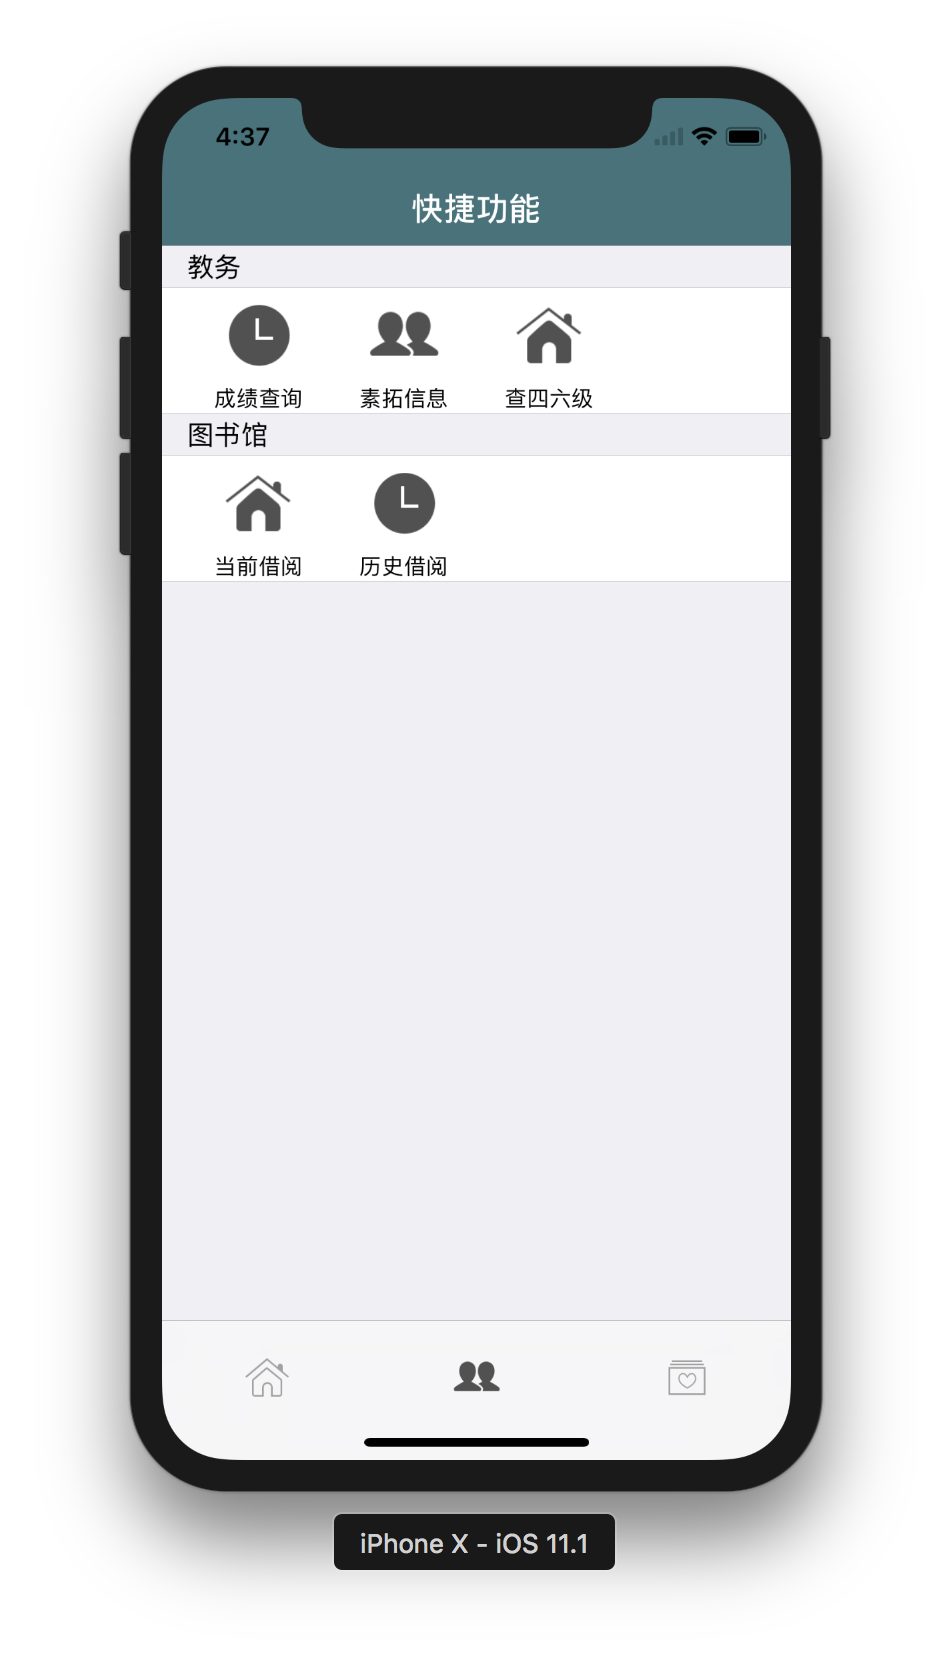
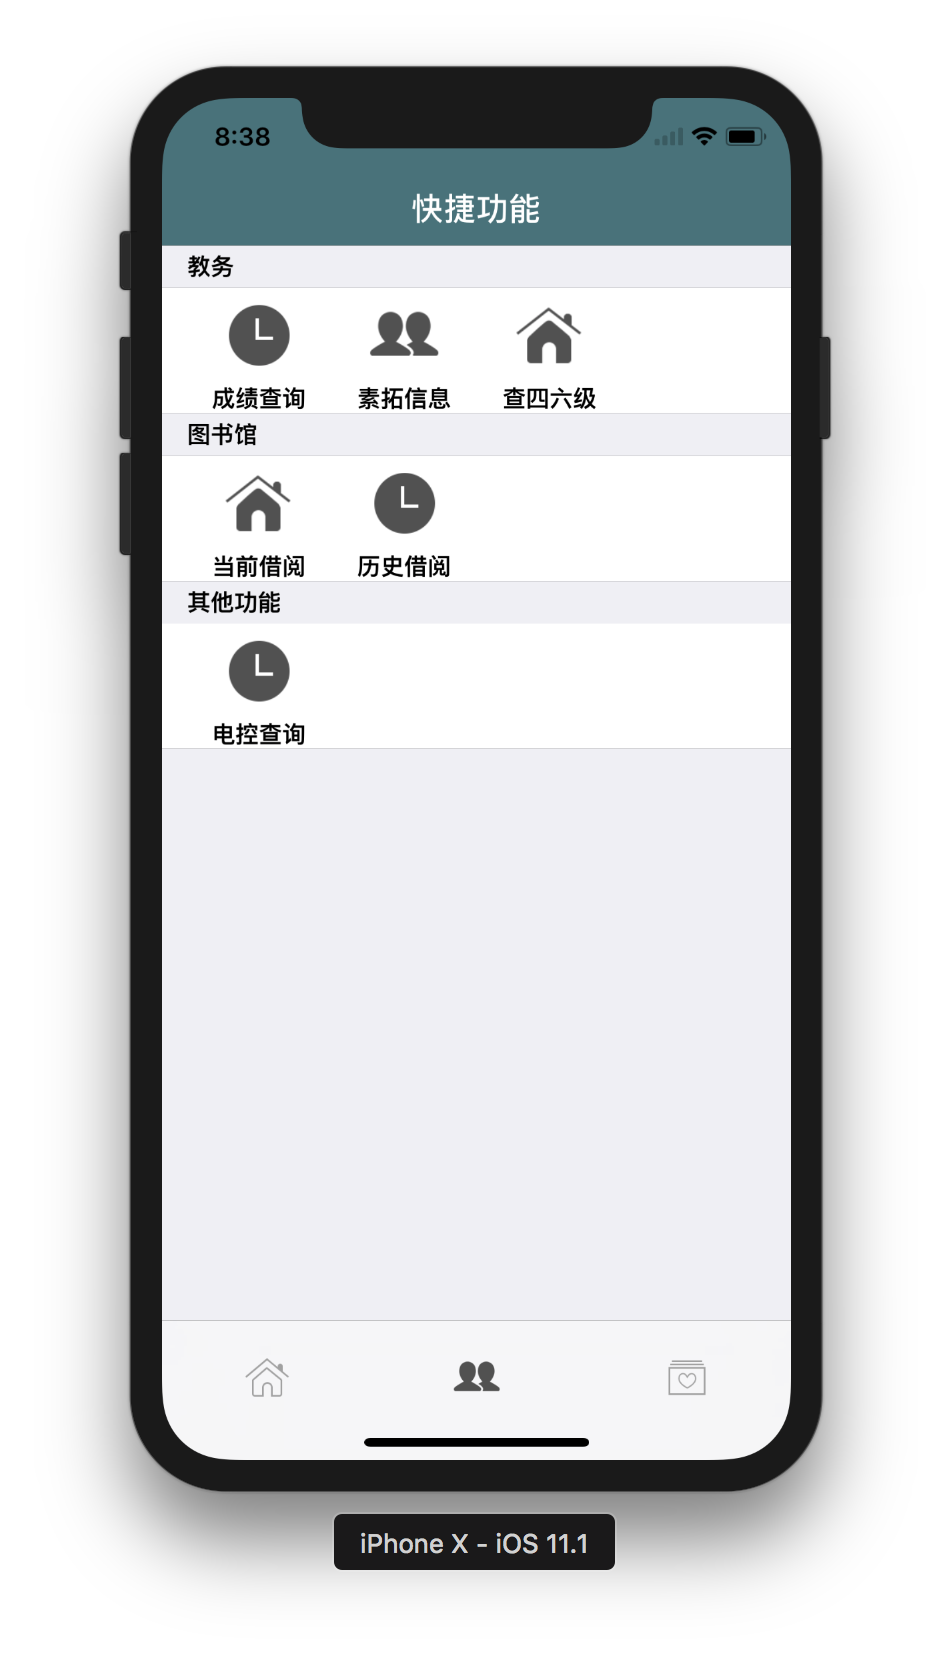
1.5.2

diff --git a/KWGdufe/Classes/Functions/Control/KWSeElectViewController.m b/KWGdufe/Classes/Functions/Control/KWSeElectViewController.m
@@ -1,0 +1,93 @@
+//
+//  KWSeElectViewController.m
+//  KWGdufe
+//
+//  Created by korwin on 2017/11/5.
+//  Copyright © 2017年 korwin. All rights reserved.
+//
+
+#import "KWSeElectViewController.h"
+
+@interface KWSeElectViewController ()
+
+@end
+
+@implementation KWSeElectViewController
+
+- (void)viewDidLoad {
+    [super viewDidLoad];
+    self.navigationItem.title = @"电费查询";
+    self.view.backgroundColor = [UIColor whiteColor];
+    [self setUpSeElectView];
+}
+
+- (void)setUpSeElectView {
+    //状态栏高度
+    CGRect rectStatus = [[UIApplication sharedApplication] statusBarFrame];
+    CGRect rectNav = self.navigationController.navigationBar.frame;
+    CGFloat toTopHeight = rectStatus.size.height + rectNav.size.height;
+    
+    UIView *view1 = [[UIView alloc]init];
+//    view1.backgroundColor = [UIColor blueColor];
+    [self.view addSubview:view1];
+    [view1 mas_makeConstraints:^(MASConstraintMaker *make) {
+        make.top.equalTo(self.view.mas_top).with.offset(toTopHeight+20);
+        make.width.equalTo(@(KWSCreenW*2/3));
+        make.height.equalTo(@(160));
+        make.centerX.mas_equalTo(self.view.mas_centerX);
+    }];
+    
+    UILabel *dormitoryNum = [[UILabel alloc]init];
+    dormitoryNum.text = @"宿舍楼号:";
+    [dormitoryNum setFont:[UIFont fontWithName:@"Helvetica-Bold" size:18]];
+    [view1 addSubview:dormitoryNum];
+    [dormitoryNum mas_makeConstraints:^(MASConstraintMaker *make) {
+        make.top.equalTo(view1.mas_top).with.offset(20);
+        make.left.equalTo(view1.mas_left);
+        make.height.equalTo(@30);
+    }];
+    
+    UILabel *roomNum = [[UILabel alloc]init];
+    roomNum.text = @"房  间  号:";
+    [roomNum setFont:[UIFont fontWithName:@"Helvetica-Bold" size:18]];
+    [view1 addSubview:roomNum];
+    [roomNum mas_makeConstraints:^(MASConstraintMaker *make) {
+        make.top.equalTo(dormitoryNum.mas_bottom).with.offset(20);
+        make.left.equalTo(dormitoryNum.mas_left);
+        make.height.equalTo(@30);
+    }];
+    
+    UITextField *dormitoryField = [[UITextField alloc]init];
+    dormitoryField.borderStyle = UITextBorderStyleRoundedRect;
+    dormitoryField.placeholder = @"楼号";
+    dormitoryField.clearButtonMode = UITextFieldViewModeAlways;
+    [view1 addSubview:dormitoryField];
+    [dormitoryField mas_makeConstraints:^(MASConstraintMaker *make) {
+        make.top.equalTo(dormitoryNum.mas_top);
+        make.left.equalTo(dormitoryNum.mas_right).with.offset(10);
+        make.right.equalTo(view1.mas_right);
+        make.bottom.equalTo(dormitoryNum.mas_bottom);
+    }];
+    
+    UITextField *roomField = [[UITextField alloc]init];
+    roomField.borderStyle = UITextBorderStyleRoundedRect;
+    roomField.placeholder = @"房间号";
+    roomField.clearButtonMode = UITextFieldViewModeAlways;
+    [view1 addSubview:roomField];
+    [roomField mas_makeConstraints:^(MASConstraintMaker *make) {
+        make.top.equalTo(roomNum.mas_top);
+        make.left.equalTo(roomNum.mas_right).with.offset(10);
+        make.right.equalTo(view1.mas_right);
+        make.bottom.equalTo(roomNum.mas_bottom);
+    }];
+    
+    UIButton *findBtn = [UIButton buttonWithType:UIButtonTypeSystem];
+    [findBtn setTitle:@"查询" forState:UIControlStateNormal];
+    [view1 addSubview:findBtn];
+    [findBtn mas_makeConstraints:^(MASConstraintMaker *make) {
+        make.centerX.mas_equalTo(view1.mas_centerX);
+        make.bottom.equalTo(view1.mas_bottom);
+    }];
+}
+
+@end

diff --git a/KWGdufe/Classes/Functions/Control/KWOtherFuncViewCell.m b/KWGdufe/Classes/Functions/Control/KWOtherFuncViewCell.m
@@ -1,23 +1,23 @@
 //
-//  KWLibraryViewCell.m
+//  KWOtherFuncViewCell.m
 //  KWGdufe
 //
-//  Created by korwin on 2017/10/30.
+//  Created by korwin on 2017/11/5.
 //  Copyright © 2017年 korwin. All rights reserved.
 //
 
-#import "KWLibraryViewCell.h"
+#import "KWOtherFuncViewCell.h"
 #import "KWFunctionsCell.h"
-#import "KWCurrentBookView.h"
+#import "KWSeElectViewController.h"
 #import <QuartzCore/QuartzCore.h>
 
 #define ID @"cell"
 
-@interface KWLibraryViewCell()<UICollectionViewDataSource,UICollectionViewDelegate>
+@interface KWOtherFuncViewCell()<UICollectionViewDataSource,UICollectionViewDelegate>
 
 @end
 
-@implementation KWLibraryViewCell
+@implementation KWOtherFuncViewCell
 
 - (instancetype)initWithStyle:(UITableViewCellStyle)style reuseIdentifier:(NSString *)reuseIdentifier {
     if (self = [super initWithStyle:style reuseIdentifier:reuseIdentifier]) {
@@ -44,7 +44,7 @@
 
 #pragma mark - UICollectViewDataSource
 - (NSInteger)collectionView:(UICollectionView *)collectionView numberOfItemsInSection:(NSInteger)section {
-    return 2;
+    return 1;
 }
 
 - (UICollectionViewCell *)collectionView:(UICollectionView *)collectionView cellForItemAtIndexPath:(NSIndexPath *)indexPath {
@@ -52,10 +52,7 @@
     [collectionView registerNib:nib forCellWithReuseIdentifier:ID];
     KWFunctionsCell *cell = [collectionView dequeueReusableCellWithReuseIdentifier:ID forIndexPath:indexPath];
     if (indexPath.row == 0) {
-        cell.name = @"当前借阅";
-        cell.imageName = @"tabBar_essence_click_icon";
-    } else if (indexPath.row == 1) {
-        cell.name = @"历史借阅";
+        cell.name = @"电控查询";
         cell.imageName = @"tabBar_new_click_icon";
     }
     cell.backgroundColor = [UIColor clearColor];
@@ -64,18 +61,8 @@
 
 - (void)collectionView:(UICollectionView *)collectionView didSelectItemAtIndexPath:(NSIndexPath *)indexPath {
     if (indexPath.row == 0) {
-        KWCurrentBookView *currentVc = [[KWCurrentBookView alloc]init];
-        currentVc.url = @"http://api.wegdufe.com:82/index.php?r=opac/current-book";
-        currentVc.modelSaveName = @"CurrentBookModel";
-        currentVc.vcName = @"当前借阅";
-        [_delegate pushVc:currentVc];
-    } else if (indexPath.row == 1) {
-        KWCurrentBookView *borrowVc = [[KWCurrentBookView alloc]init];
-        borrowVc.url = @"http://api.wegdufe.com:82/index.php?r=opac/borrowed-book";
-        borrowVc.modelSaveName = @"BorrowedBookModel";
-        borrowVc.vcName = @"历史借阅";
-        [_delegate pushVc:borrowVc];
+        KWSeElectViewController *seElectVc = [[KWSeElectViewController alloc]init];
+        [_delegate pushVc:seElectVc];
     }
 }
-
 @end

diff --git a/KWGdufe/Classes/Functions/Control/KWFunctionsViewController.m b/KWGdufe/Classes/Functions/Control/KWFunctionsViewController.m
@@ -9,8 +9,9 @@
 #import "KWFunctionsViewController.h"
 #import "KWEducationalViewCell.h"
 #import "KWLibraryViewCell.h"
+#import "KWOtherFuncViewCell.h"
 
-@interface KWFunctionsViewController ()<KWPushDelegate,KWLibraryPushDelegate>
+@interface KWFunctionsViewController ()<KWPushDelegate,KWLibraryPushDelegate,KWOtherPushDelegate>
 
 @end
 
@@ -42,7 +43,7 @@
 #pragma mark - Table view data source
 
 - (NSInteger)numberOfSectionsInTableView:(UITableView *)tableView {
-    return 2;
+    return 3;
 }
 
 - (NSInteger)tableView:(UITableView *)tableView numberOfRowsInSection:(NSInteger)section {
@@ -59,9 +60,15 @@
         cell.delegate = self;
         cell.selectionStyle = UITableViewCellSelectionStyleNone;//不可选择
         return cell;
-    } else {
+    } else if (indexPath.section == 1) {
         KWLibraryViewCell *cell = [[KWLibraryViewCell alloc]init];
 //        cell.textLabel.text = @"教务系统的功能;
+        cell.delegate = self;
+        cell.selectionStyle = UITableViewCellSelectionStyleNone;//不可选择
+        return cell;
+    } else {
+        KWOtherFuncViewCell *cell = [[KWOtherFuncViewCell alloc]init];
+        //        cell.textLabel.text = @"教务系统的功能;
         cell.delegate = self;
         cell.selectionStyle = UITableViewCellSelectionStyleNone;//不可选择
         return cell;
@@ -75,12 +82,15 @@
     UIView *customView = [[UIView alloc] initWithFrame:CGRectMake(15, 0, 320, KWSCreenW/15)];
     UILabel *headerLabel = [[UILabel alloc] initWithFrame:CGRectZero];
     headerLabel.backgroundColor = [UIColor clearColor];
-    headerLabel.font = [UIFont italicSystemFontOfSize:16];
+//    headerLabel.font = [UIFont italicSystemFontOfSize:16];
+    [headerLabel setFont:[UIFont fontWithName:@"Helvetica-Bold" size:14]];
     headerLabel.frame = customView.frame;
     if (section == 0) {
         headerLabel.text = @"教务";
-    } else {
+    } else if (section == 1) {
         headerLabel.text = @"图书馆";
+    } else {
+        headerLabel.text = @"其他功能";
     }
     [customView addSubview:headerLabel];
     return customView;

diff --git a/KWGdufe/Classes/Functions/Control/KWOtherFuncViewCell.h b/KWGdufe/Classes/Functions/Control/KWOtherFuncViewCell.h
@@ -1,0 +1,20 @@
+//
+//  KWOtherFuncViewCell.h
+//  KWGdufe
+//
+//  Created by korwin on 2017/11/5.
+//  Copyright © 2017年 korwin. All rights reserved.
+//
+
+#import <UIKit/UIKit.h>
+
+/*代理方式让主NavigationController跳转*/
+@protocol KWOtherPushDelegate <NSObject>
+- (void)pushVc:(id)Vc;
+@end
+
+@interface KWOtherFuncViewCell : UITableViewCell
+
+@property (assign, nonatomic) id<KWOtherPushDelegate> delegate;//代理属性
+
+@end

diff --git a/KWGdufe/Classes/Mine/Control/KWMineViewController.m b/KWGdufe/Classes/Mine/Control/KWMineViewController.m
@@ -233,7 +233,7 @@
             cell.selectionStyle = UITableViewCellSelectionStyleNone;//选中无色
         } else {
             cell.textLabel.text = @"选项待定";
-            cell.selectionStyle = UITableViewCellSelectionStyleNone;//禁止选中
+            cell.selectionStyle = UITableViewCellSelectionStyleNone;
         }
     }
     return cell;

diff --git a/KWGdufe/Classes/Functions/Control/KWSeElectViewController.h b/KWGdufe/Classes/Functions/Control/KWSeElectViewController.h
@@ -1,0 +1,13 @@
+//
+//  KWSeElectViewController.h
+//  KWGdufe
+//
+//  Created by korwin on 2017/11/5.
+//  Copyright © 2017年 korwin. All rights reserved.
+//
+
+#import <UIKit/UIKit.h>
+
+@interface KWSeElectViewController : UIViewController
+
+@end

diff --git a/KWGdufe/Classes/MyClass/View/KWMyClassMsgViewController.m b/KWGdufe/Classes/MyClass/View/KWMyClassMsgViewController.m
@@ -51,6 +51,7 @@
         cell.textLabel.text = @"周数";
         cell.detailTextLabel.text = _model.period;
     }
+    cell.selectionStyle = UITableViewCellSelectionStyleNone;
     return cell;
 }
 

diff --git a/KWGdufe/Classes/Mine/Control/KWTodayBuyViewController.m b/KWGdufe/Classes/Mine/Control/KWTodayBuyViewController.m
@@ -130,6 +130,7 @@
     }
     KWTodayBuyModel *model = _todayBuyModel[indexPath.row];
     cell.model = model;
+    cell.selectionStyle = UITableViewCellSelectionStyleNone;
     return cell;
 }
 

diff --git a/KWGdufe/Classes/Functions/View/KWFunctionsCell.m b/KWGdufe/Classes/Functions/View/KWFunctionsCell.m
@@ -22,6 +22,7 @@
 }
 
 - (void)setName:(NSString *)name {
+    [_iconName setFont:[UIFont fontWithName:@"Helvetica-Bold" size:14]];
     _iconName.text = name;
 }
 
